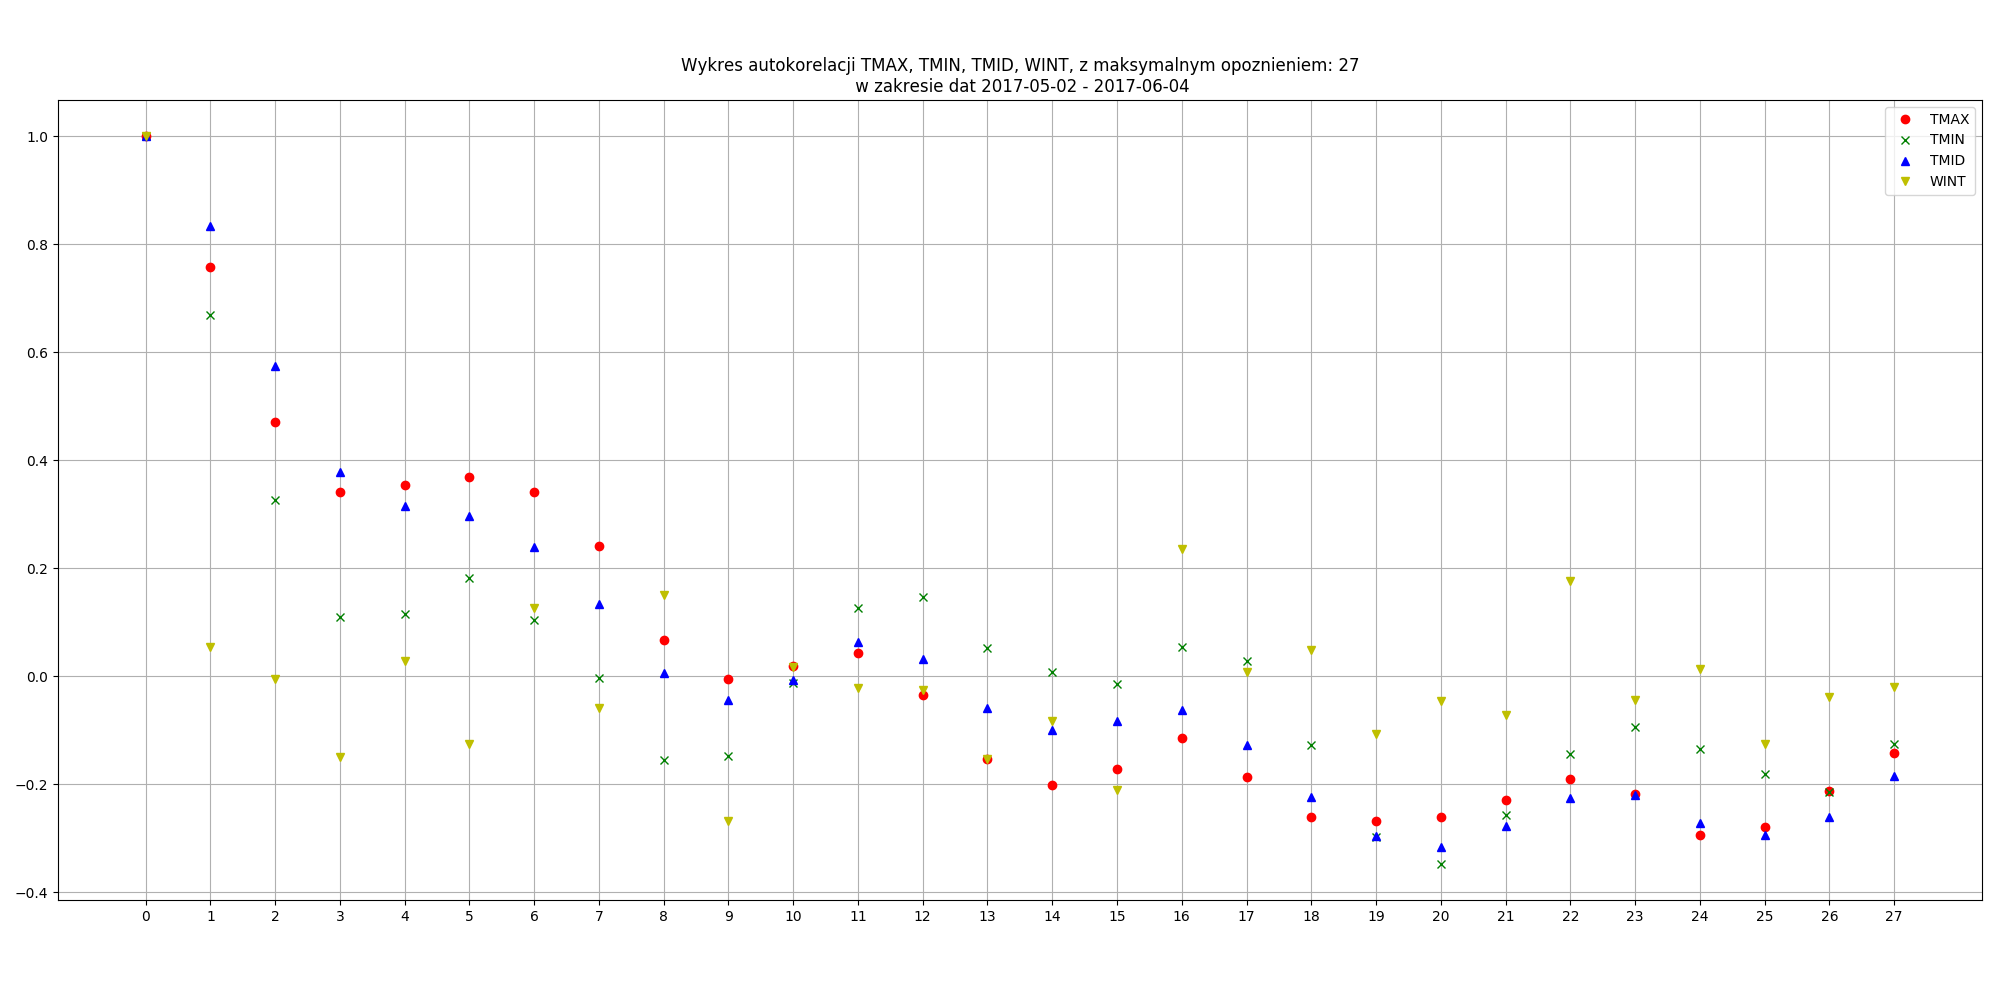
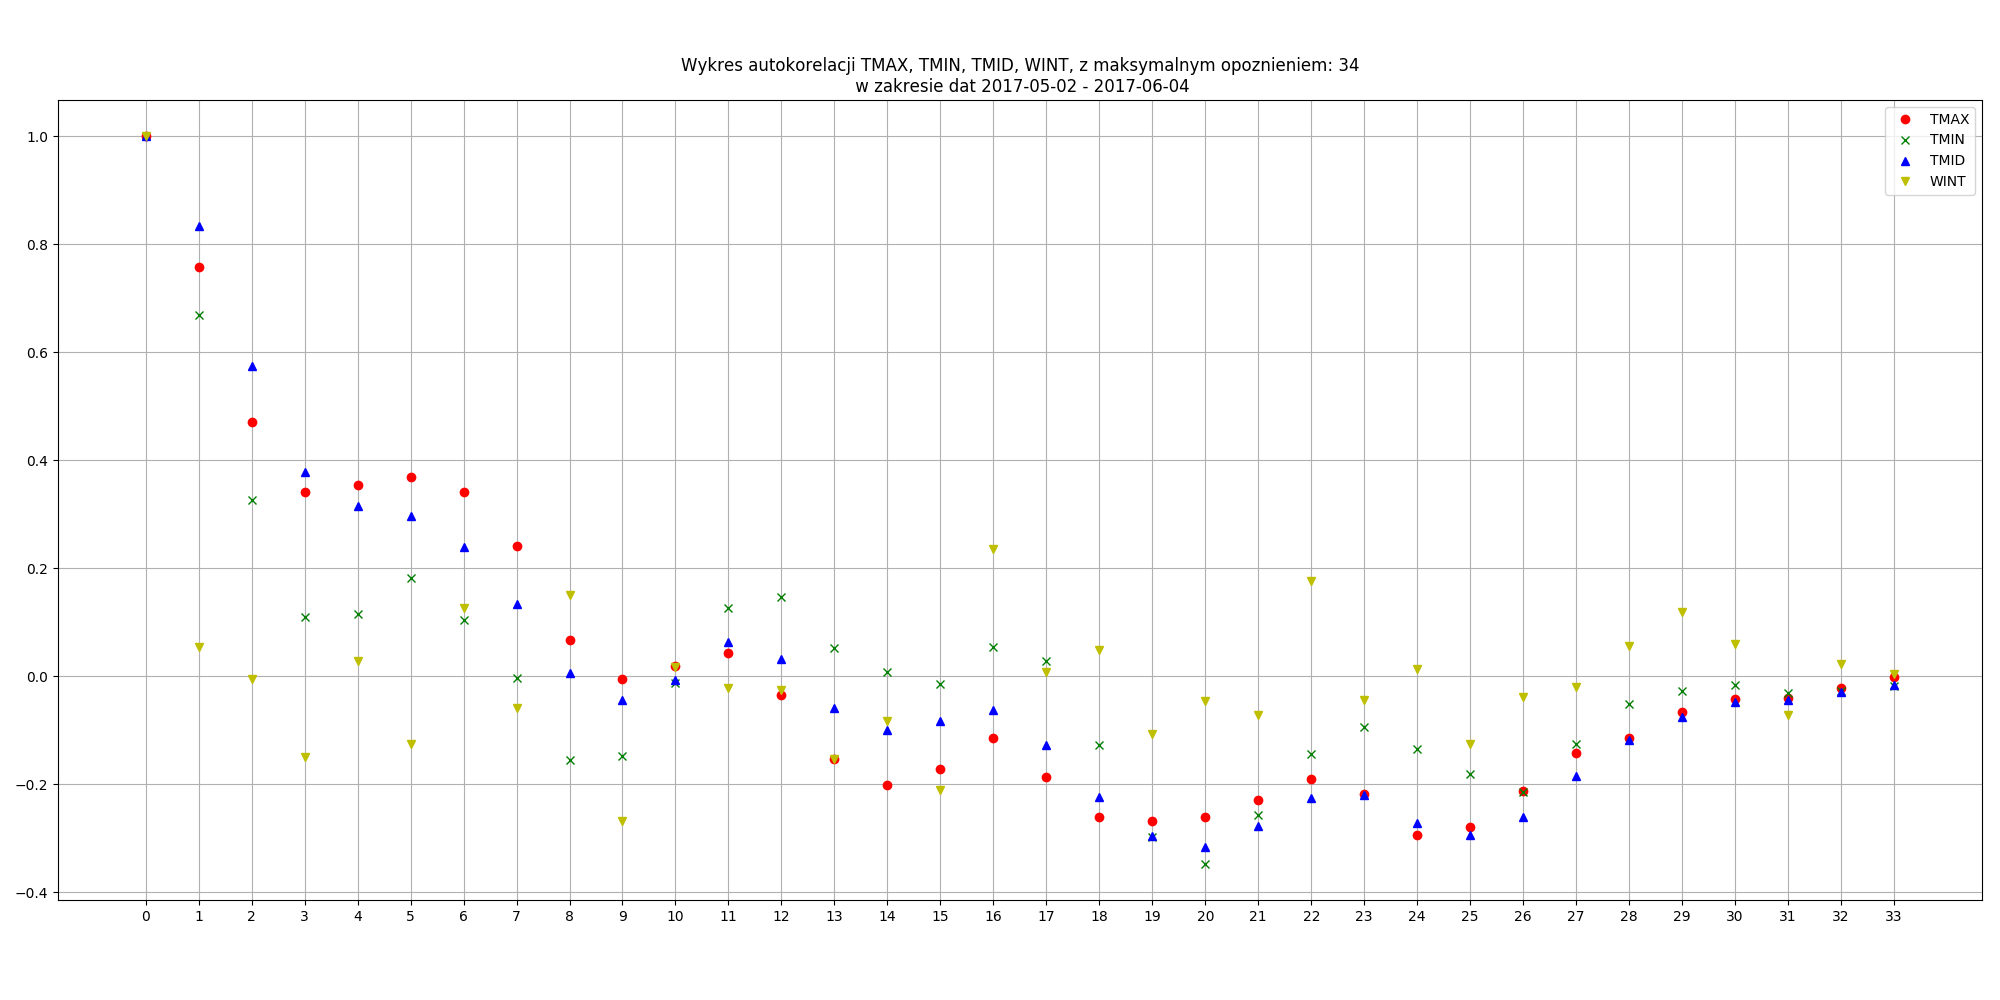
poprawki styptu i opis autokorelaji w sprawozdaniu

diff --git a/SprawozdanieOstateczne/Opis_projektu.tex b/SprawozdanieOstateczne/Opis_projektu.tex
@@ -283,7 +283,9 @@ Komentarz automatyczny jest generowany w PHP. Skrypt wysyła zapytania do bazy d
 \subsubsection{Wykresy porównawcze}
 Wykresy są generowane przez skrypt w języku Python, na podstawie podanych argumentów wywołania. Skrypt łączy się z bazą danych i pobiera informacje z tabeli \textit{`Pomiary`}, następnie nakłada pomiary zadanych wielkości na jeden wykres i generuje obraz \textit{.png}, który jest dodawany do strony HTML z użyciem PHP.
 \subsubsection{Autokorelacja}
-%TODO
+Wykresy są generowane w sposób analogiczny do wykresów porównawczych.
+Na podstawie uzyskanych daną metodą wykresów, możemy wnioskować o sezonowości danych. Autokorelacja pomaga w interpretacji wzorca powtarzania się zjawisk (w naszym przypadku pogodowych). Wykresy oscylujące w okolicach 0 po osiągnięciu lokalnego minimum świadczą o braku jakichkolwiek zależności w badanym szeregu danych. O sezonowych zależnościach możemy mówić dopiero wtedy, gdy wartości wykresu osiągają amplitudy o wartości co najmniej 0.3. Wiarygodność uzyskanych wyników zależy od liczebności badanego zbioru danych. Im większa liczniejszy zbiór, tym większa szansa obserwacji zależności. Wraz ze zwiększeniem się opóźnienia dana liczebność spada, co wynika wprost ze sposobu sporządzania wykresu autokorelacji.
+Badając zależności danych pogodowych takich jak temperatura czy opady, możemy zaobserwować pewną sezonowość wyników, gdy badane są próbki na przestrzeni roku czy kilku lat, lecz próba wykrycia zezonowości na przestrzeni miesiąca zakończy się niepowodzeniem w większości przypadków.
 \subsection{Interfejs Użytkownika (HTML, PHP)}
 W ramach interfejsu użytkownika stworzono prostą stronę HTML obsługiwaną w PHP. Nie starczyło czasu na stworzenie przyjemnego dla oka interfejsu. W interfejsie zaimplementowano wszystkie funkcjonalności bazy przewidziane w założeniach projektowych.
 \subsubsection{Użytkownik}

diff --git a/autokorelacja/autokorelacja/autokorelacja.py b/autokorelacja/autokorelacja/autokorelacja.py
@@ -62,7 +62,7 @@ for i in range(2, len(sys.argv)):
     for currentTuple in result:
         dates.append(currentTuple[0])
         values.append(currentTuple[1])
-    offset = round(len(values)*0.8)
+    offset = len(values)
     my_autocorrelation = autocorrelation(values, offset)
     my_x_axis = list()
     for k in range(0, len(my_autocorrelation)):
